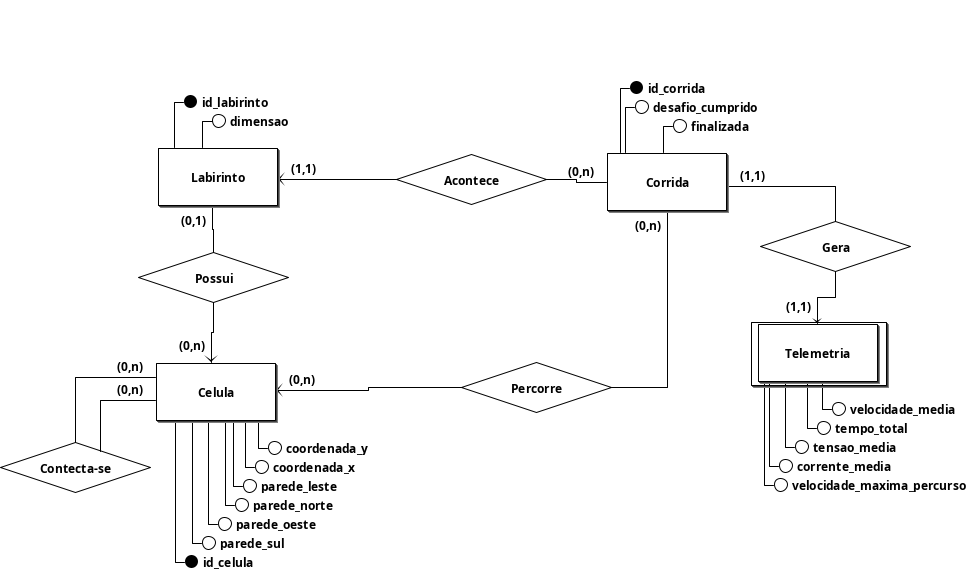
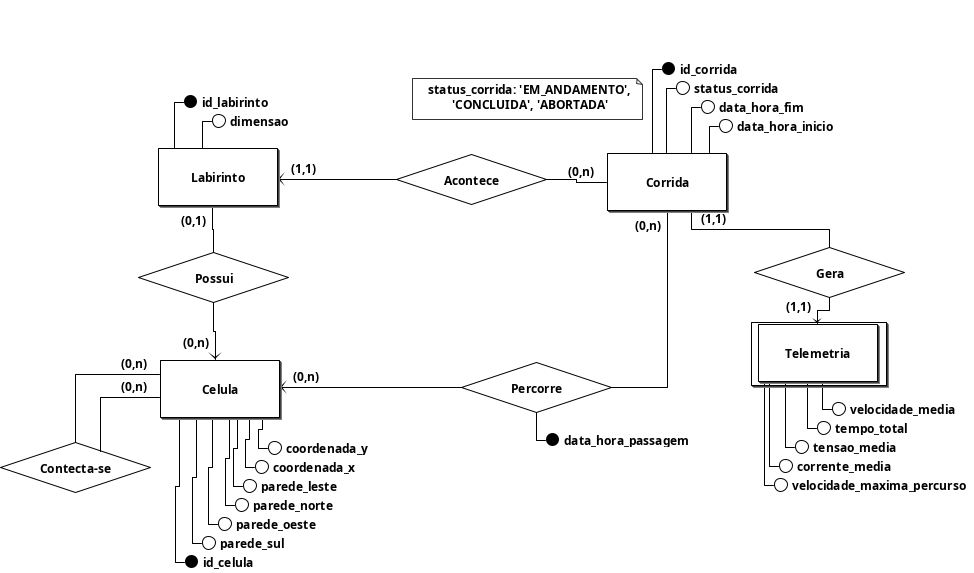
fix: corrije erro no diagrama entidade relacionamento, no relacionamento "Percorre"

diff --git a/docs/software/arquitetura-software.md b/docs/software/arquitetura-software.md
@@ -175,7 +175,7 @@ Como a solução utiliza um banco de dados relacional, foi utilizado um **Modelo
 * **LABIRINTO** (**id_labirinto**, dimensao)
 * **CELULA** (**id_celula**, coordenada_x, coordenada_y, parede_norte, parede_sul, parede_leste, parede_oeste, id_labirinto)
 * **CORRIDA** (**id_percurso**, desafio_cumprido, finalizada, id_labirinto)
-* **TELEMETRIA** (**id_telemetria**, velocidade_media, tempo_total, tensao_media, corrente_media, velocidade_maxima_percurso, id_percurso)
+* **TELEMETRIA** (velocidade_media, tempo_total, tensao_media, corrente_media, velocidade_maxima_percurso, id_percurso)
 
 #### 6.5.2 Diagrama Entidade-Relacionamento (DER)
 
